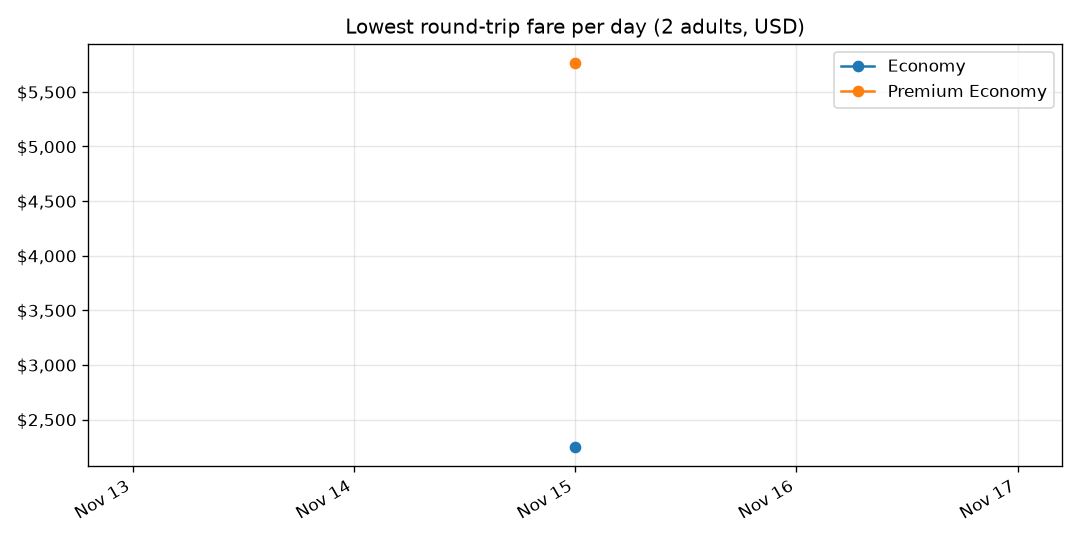
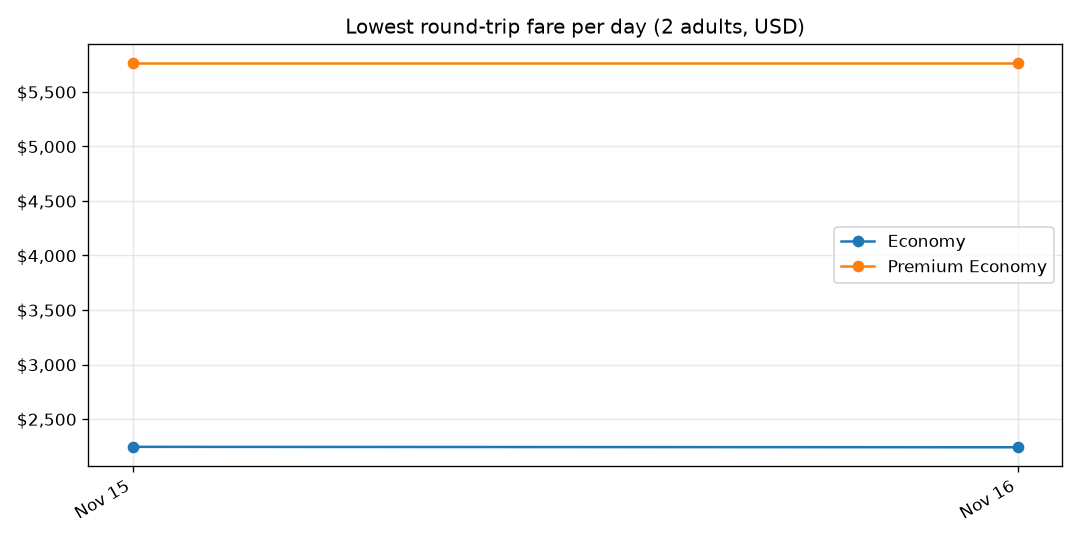
Update fare tracking data

diff --git a/SUMMARY.md b/SUMMARY.md
@@ -3,39 +3,43 @@
 Trip: out Tue Jun 15, Wed Jun 16, Thu Jun 17; back Sat Jun 19, Sun Jun 20, Mon Jun 21 · 2 adults · up to 1 stop(s) · American, United, Aer Lingus, British Airways, Virgin Atlantic
 Outbound must land in London by 10:00 AM on Jun 18.
 
-**Last run:** 2026-11-15T15:53:33Z UTC · 18 searches ok, 0 not bookable yet, 0 failed
+**Last run:** 2026-11-16T20:43:19Z UTC · 18 searches ok, 0 not bookable yet, 0 failed
 
 Prices are the round-trip fare for the whole party as quoted by Ignav (USD).
 
 ## Economy
 
-**Today's best: $2,246** · British Airways · out Tue Jun 15 (ORD-YUL-LHR, lands 09:40) · back Mon Jun 21 (LHR-DUB-ORD)
+**Today's best: $2,242** · British Airways · out Tue Jun 15 (ORD-YUL-LHR, lands 09:40) · back Mon Jun 21 (LHR-DUB-ORD)
 
-lowest seen: $2,246 on 2026-11-15 · days tracked: 1
+vs last check: ▼ $4 · vs 7-day avg ($2,246): -0.2% · lowest seen: $2,242 on 2026-11-16 · days tracked: 2
+
+🔔 **Lowest price seen so far.**
 
 | Out \ Back | Sat Jun 19 | Sun Jun 20 | Mon Jun 21 |
 |---|---|---|---|
-| Tue Jun 15 | — | $2,574 AA | $2,246 BA |
-| Wed Jun 16 | $2,434 EI | $2,574 BA | — |
-| Thu Jun 17 | $2,655 AA | $2,714 AA | — |
+| Tue Jun 15 | $2,394 BA | — | $2,242 BA |
+| Wed Jun 16 | $2,434 EI | $2,752 BA | $2,242 BA |
+| Thu Jun 17 | $2,748 UA | $2,710 AA | $2,598 AA |
 
-Cheapest today by airline: British Airways $2,246 · Aer Lingus $2,434 · United $2,464 · American $2,515
+Cheapest today by airline: British Airways $2,242 · Aer Lingus $2,434 · United $2,458 · American $2,458
 No qualifying fares today: Virgin Atlantic
 
 ## Premium Economy
 
-**Today's best: $5,766** · British Airways · out Tue Jun 15 (ORD-MCO-LGW, lands 06:50) · back Sat Jun 19 (LGW-MCO-ORD)
-Fare type: **Premium Economy** via American · [booking link](https://www.aa.com/goto/metasearch?ITEN=GOOGLE,H8YqcvIbgK7kABm4CgBD------vtdy13-n1AAAAAGr51cwLFKx6A,US,roundTrip,4,A2S0C0I0Y0L0,1,ORD,0,LGW,0,false,1813077480000,false,1813411800000,0,0,1780.00,1,%23AA%7C2288%7CH%7CORD%7CMCO%7C1813077480000%7C0%7COHX9C9P5%23AA%7C7011%7CP%7CMCO%7CLGW%7C1813094100000%7C0%7COHX9C9P5%23AA%7C6931%7CP%7CLGW%7CMCO%7C1813411800000%7C1%7COKW9C9P5%23AA%7C1611%7CH%7CMCO%7CORD%7C1813487400000%7C1%7COKW9C9P5&locale=en_US&c=MSE%7CGFS%7C20261115%7CDST%7CDST%7CWEB%7C%7CHPPH%7CHPPH%7CGFSE-0_1_0_2&dp=true&gclid=AAcRjHIhCFq0Tb96r_XQuyPzejZhRsLTDSmP_NJf70zcp6RyuaNPI5Iw4yfNELGwN7sTWQmC7BOcgC2MO4ocHkC_kn4vTS1m6soM_2KdhOMPtYl3HO8&gclsrc=gf)
+**Today's best: $5,766** · British Airways · out Wed Jun 16 (ORD-MCO-LGW, lands 06:50) · back Sat Jun 19 (LGW-MCO-ORD)
+Fare type: **Premium Economy** via American · [booking link](https://www.aa.com/goto/metasearch?ITEN=GOOGLE,H4HSnWjqvkMIAAB7_ABD----------vtdo2AAAAAGr7azoLfJrsA,US,roundTrip,4,A2S0C0I0Y0L0,1,ORD,0,LGW,0,false,1813163880000,false,1813411800000,0,0,1780.00,1,%23AA%7C2288%7CH%7CORD%7CMCO%7C1813163880000%7C0%7COHX9C9P5%23AA%7C7011%7CP%7CMCO%7CLGW%7C1813180500000%7C0%7COHX9C9P5%23AA%7C6931%7CP%7CLGW%7CMCO%7C1813411800000%7C1%7COKW9C9P5%23AA%7C1611%7CH%7CMCO%7CORD%7C1813487400000%7C1%7COKW9C9P5&locale=en_US&c=MSE%7CGFS%7C20261116%7CDST%7CDST%7CWEB%7C%7CHPPH%7CHPPH%7CGFSE-0_1_0_2&dp=true&gclid=AAcRjHJYRtl4qTGxMZuH-QraDEoTR8fj2xXJHGncTg0Nxaohq96sJD-KdFK3zFFU6nPMFjvsKhLSYsx-f6SAj5IEX1hmFP_1ZmUIQdkdNFuTtJzmZso&gclsrc=gf)
 
-lowest seen: $5,766 on 2026-11-15 · days tracked: 1
+vs last check: = $0 · vs 7-day avg ($5,766): +0.0% · lowest seen: $5,766 on 2026-11-15 · days tracked: 2
+
+🔔 **Lowest price seen so far.**
 
 | Out \ Back | Sat Jun 19 | Sun Jun 20 | Mon Jun 21 |
 |---|---|---|---|
-| Tue Jun 15 | $5,766 BA | $5,962 AA | $5,962 AA |
-| Wed Jun 16 | $5,766 BA | $5,962 BA | $5,962 BA |
-| Thu Jun 17 | $6,868 AA | $7,426 BA | — |
+| Tue Jun 15 | — | — | $5,873 AA |
+| Wed Jun 16 | $5,766 BA | $5,962 BA | $5,873 AA |
+| Thu Jun 17 | $6,868 AA | $7,212 AA | $7,212 AA |
 
-Cheapest today by airline: British Airways $5,766 · American $5,962 · United $6,448
+Cheapest today by airline: British Airways $5,766 · American $5,873 · United $6,448
 No qualifying fares today: Aer Lingus, Virgin Atlantic
 
 ## Trend
